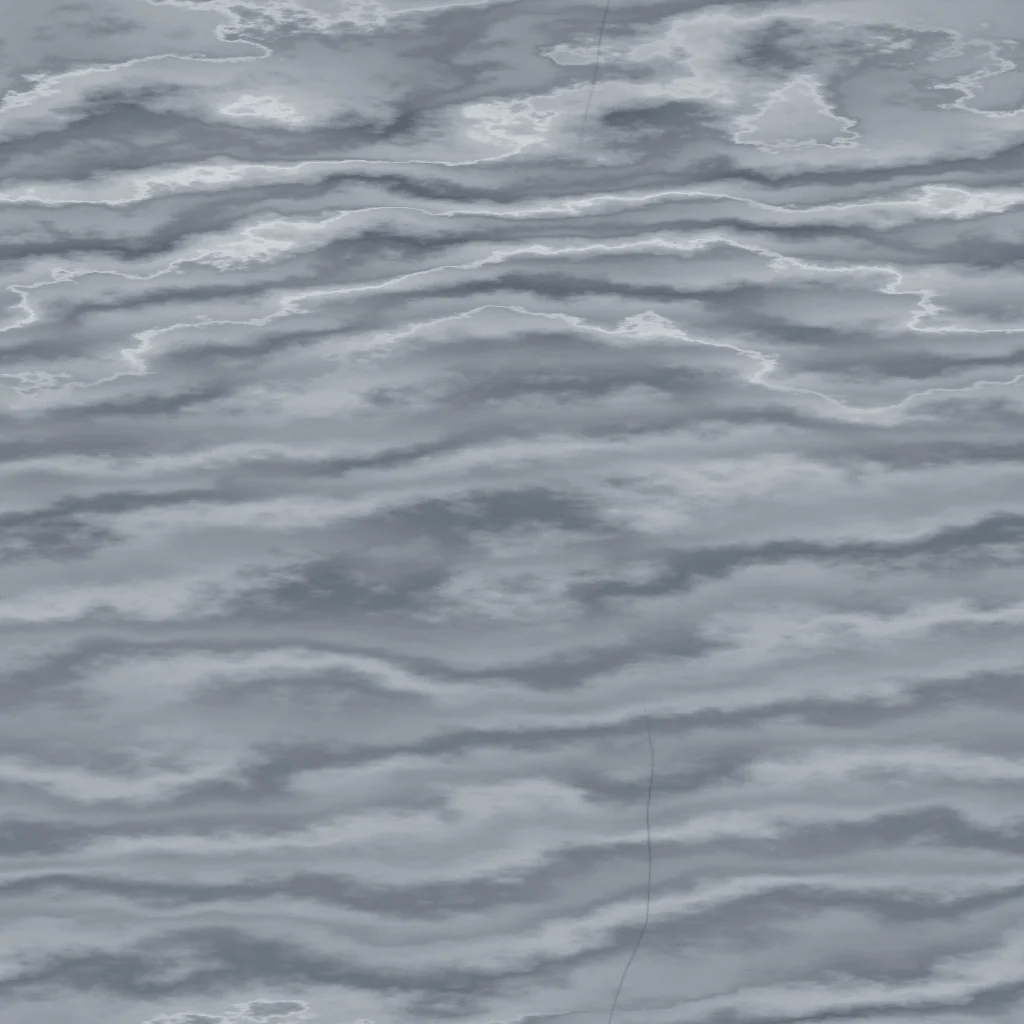
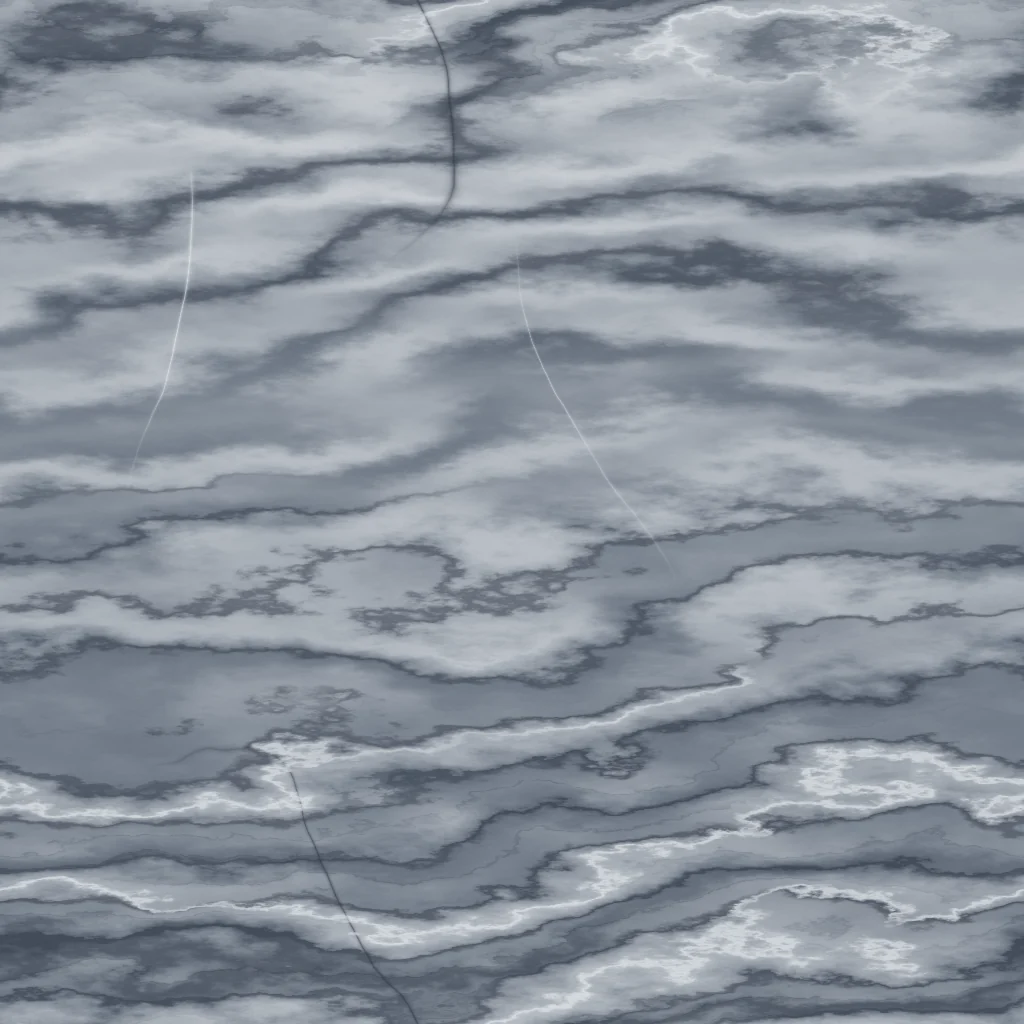
Cut the Bardiglio with slate streaks and cast the patina without strokes
On the board the first bake read as a flat grey field. Its values sat
between 110 and 198 and the night's veil took half of that away, so the
veining the verifier looked for was almost gone at the board's size. The
stone now runs from a pale dove grey to slate: crisp dark streaks along
the bed, a few slate veins across it and white calcite threads, strong
enough to survive the veil at a third of the tile's pixels.

The board's patina loses the short file strokes it had along each
member. On the frame they read as wood grain. What is left is the cast
mottle, the darker islands, the rubbed spots and the pits, lit by a paler
brass than the niche's.

diff --git a/scripts/board_materials.py b/scripts/board_materials.py
@@ -18,10 +18,12 @@ noise, fixed seeds, byte-stable output.
   passes, and on the board's narrow rails and stiles those passes read as
   the grain of wood. A casting is finished differently: the patina lies in
   a fine mottle with darker islands where it took deeper, the hands have
-  rubbed some of it back, the file has left short strokes along each
-  member, and the metal shows a few pits. Signed alpha, as the statuary
-  tile: light where the patina is thin, dark where it is thick, so it
-  relights any bronze with no blend mode.
+  rubbed some of it back and the metal shows a few pits. It has no strokes
+  at all: the first bake filed short ones along each member, and on the
+  frame they still read as grain. Signed alpha, as the statuary tile:
+  light where the patina is thin, dark where it is thick, so it relights
+  any bronze with no blend mode. The light is a pale brass, not the warm
+  one of the niche, so the board's bronze stays cool.
 - brush-copper.webp: the draw marks on rolled copper and brass: fine
   streaks along the bar, a few heavier ones, in signed alpha. The swing's
   poses lay it along each blade, so the grain turns with the blade.
@@ -48,62 +50,70 @@ def bardiglio(n=1024):
     # Perlin's marble: the bed as a stack of sine bands pushed about by
     # turbulence. The turbulence is rough (beta under 2) and stretched along
     # the bed, so the bands fray into cloudy streaks instead of rippling
-    # (a smooth warp gave a topographic map; contour lines gave wood).
-    # Integer wave numbers keep the tile periodic.
+    # (a smooth warp gave a topographic map, contour lines gave wood, and
+    # the level sets of noise gave a coastline). Integer wave numbers keep
+    # the tile periodic.
     t1 = fbm(n, 391, 1.75, (3.0, 1.0)) - 0.5
     t2 = fbm(n, 392, 2.4, (2.0, 1.0)) - 0.5
-    ph = 2 * np.pi * (1 * x + 9 * y) + t1 * 16.0 + t2 * 8.0
+    t3 = fbm(n, 393, 3.0, (1.0, 1.0)) - 0.5
+    ph = 2 * np.pi * (1 * x + 7 * y) + t1 * 14.0 + t2 * 7.0 + t3 * 6.0
     b = 0.5 + 0.5 * np.sin(ph)
-    ph2 = 2 * np.pi * (2 * x + 23 * y) + t1 * 22.0 + (fbm(n, 393, 1.9, (3.0, 1.0)) - 0.5) * 10.0
+    ph2 = 2 * np.pi * (2 * x + 19 * y) + t1 * 20.0 + (fbm(n, 394, 1.9, (3.0, 1.0)) - 0.5) * 9.0 + t3 * 8
     b2 = 0.5 + 0.5 * np.sin(ph2)
-    cloud = fbm(n, 394, 2.0, (2.0, 1.0))
-    body = 0.4 * b + 0.35 * b2 + 0.25 * cloud
+    cloud = fbm(n, 395, 2.2, (2.5, 1.0))
+    # The ground is a pale dove grey and the clouds a bluer slate. The first
+    # bake kept every value between 110 and 198 and the veil took half of
+    # that away, so on the board the stone read as a flat grey field: the
+    # streaks now go down to slate and the calcite up to near white.
+    body = 0.45 * b + 0.2 * b2 + 0.35 * cloud
     body = (body - body.min()) / (body.max() - body.min())
     ground = ramp(body, [
-        (0.00, (110, 119, 130)), (0.2, (124, 132, 143)), (0.45, (142, 150, 159)),
-        (0.7, (160, 167, 175)), (0.88, (176, 182, 188)), (1.00, (188, 193, 198))])
-    dark = np.array([60, 68, 81], dtype=np.float64)
-    # The darkest streaks lie in the troughs of the bands, sharpened and
-    # broken along their run.
-    s1 = np.power(1 - b, 7.0) * _smoothstep(0.3, 0.72, fbm(n, 395, 2.1, (4.0, 1.0)))
-    s2 = np.power(1 - b2, 12.0) * _smoothstep(0.4, 0.8, fbm(n, 396, 2.1, (4.0, 1.0))) * 0.8
-    s = np.clip(s1 * 0.7 + s2 * 0.6, 0, 1)
-    rgb = ground * (1 - s[..., None] * 0.45) + dark * (s[..., None] * 0.45)
-    # Slate veins cross the bed, few and wavering.
-    sv = flow_veins(n, 397, 2.6, (1.0, 1.4), 0.08, 180, 0.9) * _smoothstep(0.52, 0.84, fbm(n, 398, 2.2))
-    rgb = rgb * (1 - sv[..., None] * 0.5) + dark * (sv[..., None] * 0.5)
-    # White calcite runs with the bed along a few of the crests.
-    c1 = np.power(b, 60.0) * _smoothstep(0.55, 0.85, fbm(n, 399, 2.2, (3.0, 1.0)))
-    white = np.array([226, 231, 234], dtype=np.float64)
-    rgb = rgb * (1 - c1[..., None] * 0.55) + white * (c1[..., None] * 0.55)
+        (0.00, (98, 108, 122)), (0.25, (120, 129, 141)), (0.5, (146, 154, 164)),
+        (0.72, (170, 177, 185)), (0.9, (190, 195, 201)), (1.00, (202, 206, 211))])
+    dark = np.array([46, 54, 68], dtype=np.float64)
+    # The bedding streaks lie in the troughs of the bands, crisp and broken
+    # along their run, with a few hairlines where the bed laminates.
+    s1 = np.power(1 - b, 9.0) * _smoothstep(0.34, 0.62, fbm(n, 396, 2.0, (5.0, 1.0)))
+    s2 = np.power(1 - b2, 16.0) * _smoothstep(0.42, 0.7, fbm(n, 397, 2.0, (5.0, 1.0)))
+    ph3 = ph2 * 2.0 + t2 * 6.0
+    s3 = (np.power(0.5 + 0.5 * np.sin(ph3), 40.0) * _smoothstep(0.45, 0.75, fbm(n, 398, 2.1, (4.0, 1.0)))
+          * (1 - body) * 1.4)
+    s = np.clip(s1 * 0.85 + s2 * 0.8 + s3 * 0.3, 0, 1)
+    rgb = ground * (1 - s[..., None] * 0.62) + dark * (s[..., None] * 0.62)
+    # Slate veins cross the bed, few, wavering and crisp.
+    sv = flow_veins(n, 399, 2.6, (1.0, 1.3), 0.08, 150, 0.9) * _smoothstep(0.48, 0.8, fbm(n, 400, 2.2))
+    rgb = rgb * (1 - sv[..., None] * 0.66) + dark * (sv[..., None] * 0.66)
+    # White calcite heals the fissures: along a few crests, and a thread or
+    # two across the bed.
+    c1 = np.power(b, 70.0) * _smoothstep(0.5, 0.8, fbm(n, 401, 2.2, (3.0, 1.0)))
+    c2 = flow_veins(n, 405, 2.7, (1.0, 1.8), 0.06, 280, 0.9) * _smoothstep(0.6, 0.85, fbm(n, 403, 2.3))
+    white = np.array([232, 236, 239], dtype=np.float64)
+    c = np.clip(c1 * 0.8 + c2 * 0.9, 0, 1)
+    rgb = rgb * (1 - c[..., None] * 0.8) + white * (c[..., None] * 0.8)
     # the fine sparkle of a polished saccharoidal marble
-    grain = (fbm(n, 400, 0.3) - 0.5) * 6.0
+    grain = (fbm(n, 404, 0.3) - 0.5) * 7.0
     return rgb + grain[..., None]
 
 
 def patina_board(n=384):
-    from scipy.ndimage import gaussian_filter
     rng = np.random.default_rng(411)
     mottle = fbm(n, 412, 2.1) - 0.5
     fine = fbm(n, 413, 1.4) - 0.5
+    speck = fbm(n, 418, 0.8) - 0.5
     islands = np.clip((fbm(n, 414, 2.4) - 0.58) * 3.2, 0, 1)
     rub = np.clip((fbm(n, 415, 2.6) - 0.55) * 2.8, 0, 1)
-    # the file's short strokes along the member, broken
-    st = fbm(n, 416, 1.2, (1.0, 14.0))
-    st = st - gaussian_filter(st, (0, 4), mode="wrap")
-    st = st / (np.abs(st).max() + 1e-9) * np.clip(fbm(n, 417, 2.0) * 1.6 - 0.3, 0, 1)
     pits = np.zeros((n, n))
-    for _ in range(50):
+    for _ in range(60):
         y, x = rng.integers(0, n, 2)
-        r = rng.uniform(0.6, 1.6)
+        r = rng.uniform(0.6, 1.5)
         yy, xx = np.ogrid[-4:5, -4:5]
         spot = np.exp(-(xx * xx + yy * yy) / (2 * r * r))
         ys, xs = (np.arange(y - 4, y + 5) % n), (np.arange(x - 4, x + 5) % n)
         pits[np.ix_(ys, xs)] = np.maximum(pits[np.ix_(ys, xs)], spot)
-    g = 0.5 + mottle * 0.34 + fine * 0.16 - islands * 0.16 + rub * 0.12 + st * 0.025 - pits * 0.3
+    g = 0.5 + mottle * 0.34 + fine * 0.18 + speck * 0.1 - islands * 0.18 + rub * 0.12 - pits * 0.3
     d = np.clip(g, 0, 1) - 0.5
-    light = np.array([255, 226, 188], dtype=np.float64)
-    dark = np.array([8, 4, 2], dtype=np.float64)
+    light = np.array([236, 224, 194], dtype=np.float64)
+    dark = np.array([6, 6, 3], dtype=np.float64)
     rgb = np.where(d[..., None] > 0, light[None, None, :], dark[None, None, :])
     a = np.clip(np.abs(d) * 2.1, 0, 0.9)
     arr = np.concatenate([rgb, a[..., None] * 255], axis=-1)
